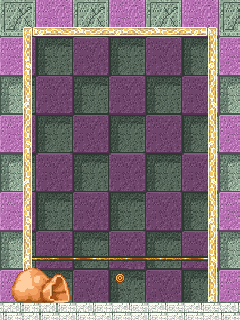
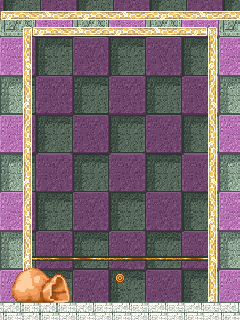
Improved credits. Added konami easter egg. Updated backgrounds to fit score and title

Changed region(s): [[0.0, 0.0, 1.0, 0.0625]]

diff --git a/Konami.cpp b/Konami.cpp
@@ -1,0 +1,161 @@
+#include "Konami.h"
+#include "Game.h"
+
+const glm::ivec2 Konami::kNumSprites = glm::ivec2(500, 1000);
+const glm::ivec2 Konami::kBoundariesX = glm::ivec2(-700, -64);
+const glm::ivec2 Konami::kBoundariesY = glm::ivec2(-64, 420);
+
+Konami::Konami(ShaderProgram& mTexProgram)
+	: mTexProgram(mTexProgram) {
+	
+}
+
+Konami::~Konami() {
+	for (Sprite* sprite : mSprites)
+		if (sprite != nullptr)
+			delete sprite;
+
+	mSprites.clear();
+}
+
+void Konami::init() {
+	mTexKonami.loadFromFile("images/konami.png", TEXTURE_PIXEL_FORMAT_RGBA);
+
+	mSequenceState = 0;
+	mActive = false;
+}
+
+void Konami::update(int deltaTime) {
+	updateSequence();
+
+	Sprite* sprite;
+	std::list<Sprite*>::iterator it = mSprites.begin();
+
+	glm::vec2 position;
+
+	if (mActive) {
+		while (it != mSprites.end()) {
+			sprite = *it;
+
+			sprite->update(deltaTime);
+
+			position = sprite->getPosition();
+			position.x += 0.1 * deltaTime;
+			sprite->setPosition(position);
+
+			/*if (outOfBounds(sprite)) {
+				delete sprite;
+				mSprites.erase(it++);
+			}*/
+			it++;
+
+		}
+	}	
+}
+
+void Konami::render() {
+	for (Sprite* sprite : mSprites)
+		if (sprite != nullptr)
+			sprite->render();
+}
+
+Sprite* Konami::initOneSprite() {
+	Sprite* sprite = Sprite::createSprite(
+		glm::ivec2(32, 32),
+		glm::vec2(32.0f/256.0f, 1),
+		&mTexKonami,
+		&mTexProgram
+	);
+
+	sprite->setNumberAnimations(1);
+	sprite->setAnimationSpeed(0, 10);
+		for (int i = 0; i < 6; ++i)
+			sprite->addKeyframe(0, glm::vec2(32.0f/256.0f * i, 0.0f));
+	sprite->changeAnimation(0);
+	sprite->setRepeat(true);
+
+	glm::ivec2 position;
+	position.x = randomInt(kBoundariesX.x, kBoundariesX.y);
+	position.y = randomInt(kBoundariesY.x, kBoundariesY.y);
+	sprite->setPosition(position);
+
+	return sprite;
+}
+
+void Konami::initSprites() {
+	int instances = randomInt(kNumSprites.x, kNumSprites.y);
+
+	for (int i = 0; i < instances; ++i)
+		mSprites.push_back(initOneSprite());
+}
+
+int Konami::randomInt(int min, int max) {
+	return
+		min + static_cast <int> (rand()) /( static_cast <int> (RAND_MAX/(max-min)));
+}
+
+float Konami::randomFloat(float min, float max) {
+	return
+		min + static_cast <float> (rand()) /( static_cast <float> (RAND_MAX/(max-min)));
+}
+
+bool Konami::outOfBounds(Sprite* sprite) {
+	glm::vec2 position = sprite->getPosition();
+	const float margin = 32.0f;
+
+	return
+		position.x < 0 - margin ||
+		position.x > 240 + margin ||
+		position.y < 0 - margin ||
+		position.y > 320 + margin;
+}
+
+void Konami::updateSequence() {
+	if (Game::instance().getSpecialKeyPressed(GLUT_KEY_UP)) {
+		if (mSequenceState == 0 || mSequenceState == 1)
+			++mSequenceState;
+		else
+			mSequenceState = 0;
+	}
+	if (Game::instance().getSpecialKeyPressed(GLUT_KEY_DOWN)) {
+		if (mSequenceState == 2 || mSequenceState == 3)
+			++mSequenceState;
+		else
+			mSequenceState = 0;
+	}
+	if (Game::instance().getSpecialKeyPressed(GLUT_KEY_LEFT)) {
+		if (mSequenceState == 4 || mSequenceState == 6)
+			++mSequenceState;
+		else
+			mSequenceState = 0;
+	}
+	if (Game::instance().getSpecialKeyPressed(GLUT_KEY_RIGHT)) {
+		if (mSequenceState == 5 || mSequenceState == 7)
+			++mSequenceState;
+		else
+			mSequenceState = 0;
+	}
+	if (Game::instance().getKeyPressed('b')) {
+		if (mSequenceState == 8)
+			++mSequenceState;
+		else
+			mSequenceState = 0;
+	}
+	if (Game::instance().getKeyPressed('a')) {
+		if (mSequenceState == 9)
+			++mSequenceState;
+		else
+			mSequenceState = 0;
+	}
+	if (Game::instance().getKeyPressed('\n')) {
+		if (mSequenceState == 10) 
+			++mSequenceState;
+		else
+			mSequenceState = 0;
+	}
+
+	if (mSequenceState == 10 && !mActive) {
+		mActive = true;
+		initSprites();
+	}
+}

diff --git a/SceneFinal.cpp b/SceneFinal.cpp
@@ -18,9 +18,10 @@ void SceneFinal::init() {
 	Game::instance().getBackgroundMusic().setVolume(50);
 
 	mTex.loadFromFile("images/credits-roll.png", TEXTURE_PIXEL_FORMAT_RGBA);
+	mTexFrame.loadFromFile("images/frame.png", TEXTURE_PIXEL_FORMAT_RGBA);
 	
 	mSprite = Sprite::createSprite(
-		glm::ivec2(240, 800), 
+		glm::ivec2(240, 1340), 
 		glm::vec2(1, 1), 
 		&mTex, 
 		&mTexProgram
@@ -31,6 +32,15 @@ void SceneFinal::init() {
 
 	mPosition = glm::vec2(0, 0);
 	mSprite->setPosition(mPosition);
+
+	mSpriteFrame = Sprite::createSprite(
+		glm::ivec2(240, 320),
+		glm::vec2(1.0f, 1.0f),
+		&mTexFrame,
+		&mTexProgram
+	);
+	mSpriteFrame->setNumberAnimations(1);
+	mSpriteFrame->addKeyframe(0, glm::vec2(0, 0));
 }
 
 void SceneFinal::update(int deltaTime) {
@@ -40,9 +50,9 @@ void SceneFinal::update(int deltaTime) {
 		Game::instance().changeScene(SCENE_MENU);
 	}
 
-	if (currentTime >= 6000) {
-		mPosition.y -= 0.05f * deltaTime;
-		mPosition.y = std::max(-96.0f - 12 * 16.0f, mPosition.y);
+	if (currentTime >= 7000) {
+		mPosition.y -= 0.03f * deltaTime;
+		mPosition.y = std::max(-1024.0f, mPosition.y);
 		mSprite->setPosition(mPosition);
 	}
 }
@@ -51,4 +61,5 @@ void SceneFinal::render() {
 	Scene::render();
 
 	mSprite->render();
+	mSpriteFrame->render();
 }

diff --git a/SceneMenu.cpp b/SceneMenu.cpp
@@ -24,6 +24,9 @@ void SceneMenu::init() {
 	Game::instance().changeBackgroundMusic("music/menu.ogg");
 	Game::instance().getBackgroundMusic().setLoop(true);
 	Game::instance().getBackgroundMusic().setVolume(75);
+
+	mKonami = new Konami(mTexProgram);
+	mKonami->init();
 }
 
 void SceneMenu::update(int deltaTime) {
@@ -54,6 +57,9 @@ void SceneMenu::update(int deltaTime) {
 		}
 	}
 
+	if (Game::instance().getKeyPressed('w'))
+		Game::instance().changeScene(SCENE_FINAL);
+
 	const int curOption = static_cast<unsigned int>(mMenuOption);
 	const int numOptions = static_cast<unsigned int>(NUM_OPTIONS);
 
@@ -64,9 +70,12 @@ void SceneMenu::update(int deltaTime) {
 		mMenuOption = static_cast<MenuOption>((curOption + numOptions + 1)%numOptions);
 		Game::instance().playSoundEffect("sfx/tick.ogg");
 	}
+
+	mKonami->update(deltaTime);
 }
 
 void SceneMenu::render() {
 	Scene::render();
 	mBobble->render();
+	mKonami->render();
 }

diff --git a/ScenePlay.cpp b/ScenePlay.cpp
@@ -3,7 +3,7 @@
 
 const int ScenePlay::kMaxLevelNumber = 4;
 
-const int ScenePlay::kStartingScore = 100;
+const int ScenePlay::kStartingScore = 1000;
 const int ScenePlay::kTurnPenalty = 10;
 
 const int ScenePlay::kTimeToNextScene = 2000;
@@ -37,7 +37,8 @@ void ScenePlay::init() {
 
 	mTexFont.loadFromFile("images/font.png", TEXTURE_PIXEL_FORMAT_RGBA);
 	mTextScore.init();
-	mTextScore.setPosition(glm::vec2(0.0f, 0.0f));
+	mTextScore.setPosition(glm::vec2(4.0f, 2.0f));
+	mTitle = mBubbleLevel.getTitle();
 
 	mTimeToNextScene = -1;
 
@@ -174,7 +175,10 @@ void ScenePlay::receiveInteger(int integer) {
 }
 
 void ScenePlay::updateScore() {
-	mTextScore.setString("Score " + std::to_string(mScore));
+	mTextScore.setString(
+		"Score " + std::to_string(mScore) +
+		"   " + mTitle
+	);
 }
 
 void ScenePlay::winLevel() {

diff --git a/Konami.h b/Konami.h
@@ -1,0 +1,39 @@
+#ifndef _KONAMI_INCLUDE
+#define _KONAMI_INCLUDE
+
+#include <glm/glm.hpp>
+#include "ShaderProgram.h"
+#include "Sprite.h"
+
+#include <list>
+
+class Konami {
+public:
+	Konami(ShaderProgram& mTexProgram);
+	~Konami();
+
+	void init();
+	void update(int deltaTime);
+	void render();
+
+private:
+	ShaderProgram& mTexProgram;
+	Texture mTexKonami;
+	std::list<Sprite*> mSprites;
+
+	unsigned int mSequenceState;
+	bool mActive;
+
+	static const glm::ivec2 kNumSprites;
+	static const glm::ivec2 kBoundariesX;
+	static const glm::ivec2 kBoundariesY;
+	static int randomInt(int min, int max);
+	static float randomFloat(float min, float max);
+	static bool outOfBounds(Sprite* sprite);
+
+	Sprite* initOneSprite();
+	void initSprites();
+	void updateSequence();
+};
+
+#endif // _KNAMI_INCLUDE

diff --git a/SceneMenu.h b/SceneMenu.h
@@ -3,6 +3,7 @@
 
 #include "Scene.h"
 #include "SpriteBobble.h"
+#include "Konami.h"
 
 class SceneMenu : public Scene {
 public:
@@ -27,6 +28,8 @@ private:
 		NUM_OPTIONS
 	};
 	MenuOption mMenuOption;
+
+	Konami* mKonami;
 };
 
 

diff --git a/ScenePlay.h b/ScenePlay.h
@@ -51,6 +51,7 @@ private:
 	static const int kStartingScore;
 	static const int kTurnPenalty;
 	int mScore;
+	std::string mTitle;
 	void updateScore();
 
 	// Win condition

diff --git a/SceneFinal.h b/SceneFinal.h
@@ -15,6 +15,9 @@ public:
 private:
 	bool mMusicInit;
 
+	Texture mTexFrame;
+	Sprite* mSpriteFrame;
+
 	Texture mTex;
 	Sprite* mSprite;
 
